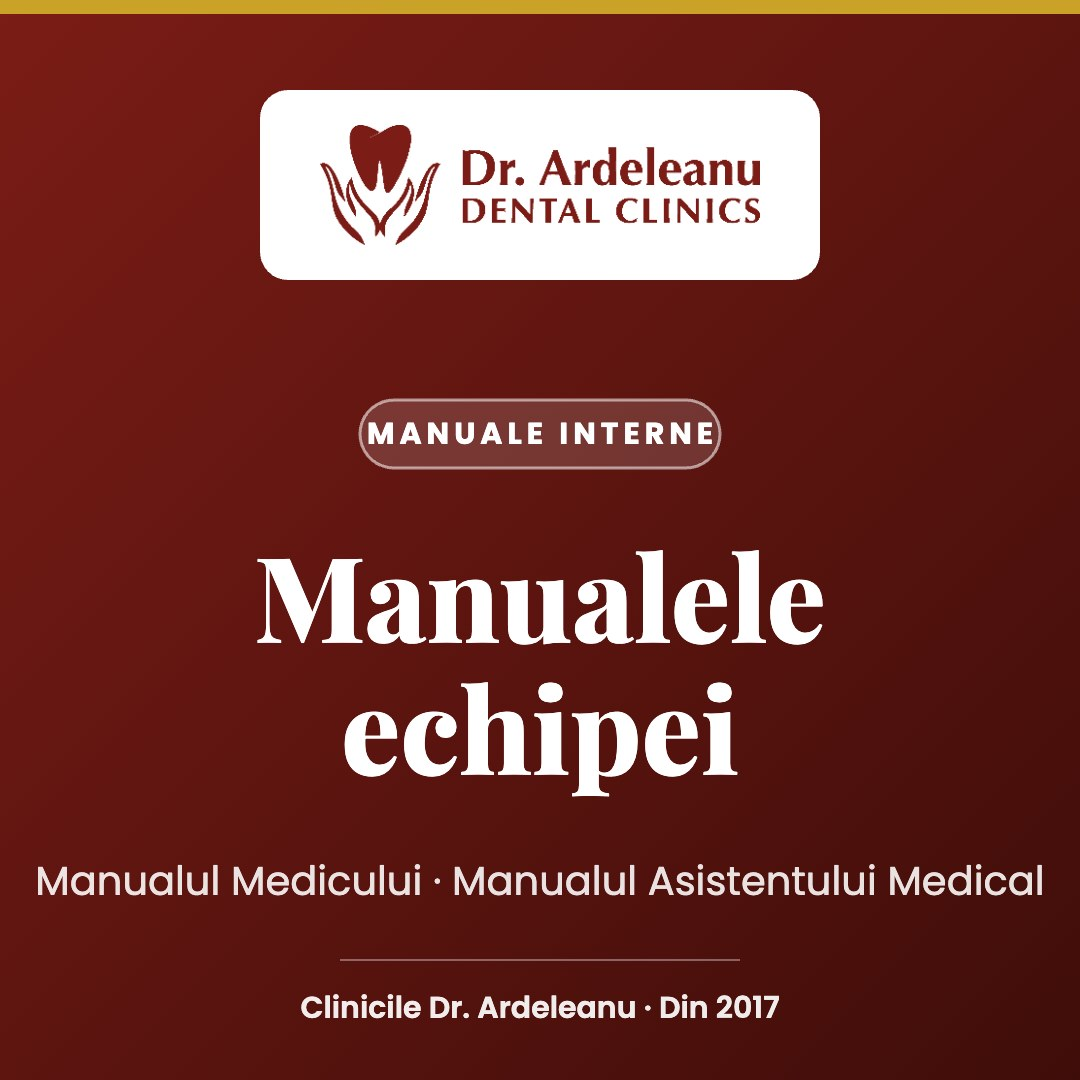
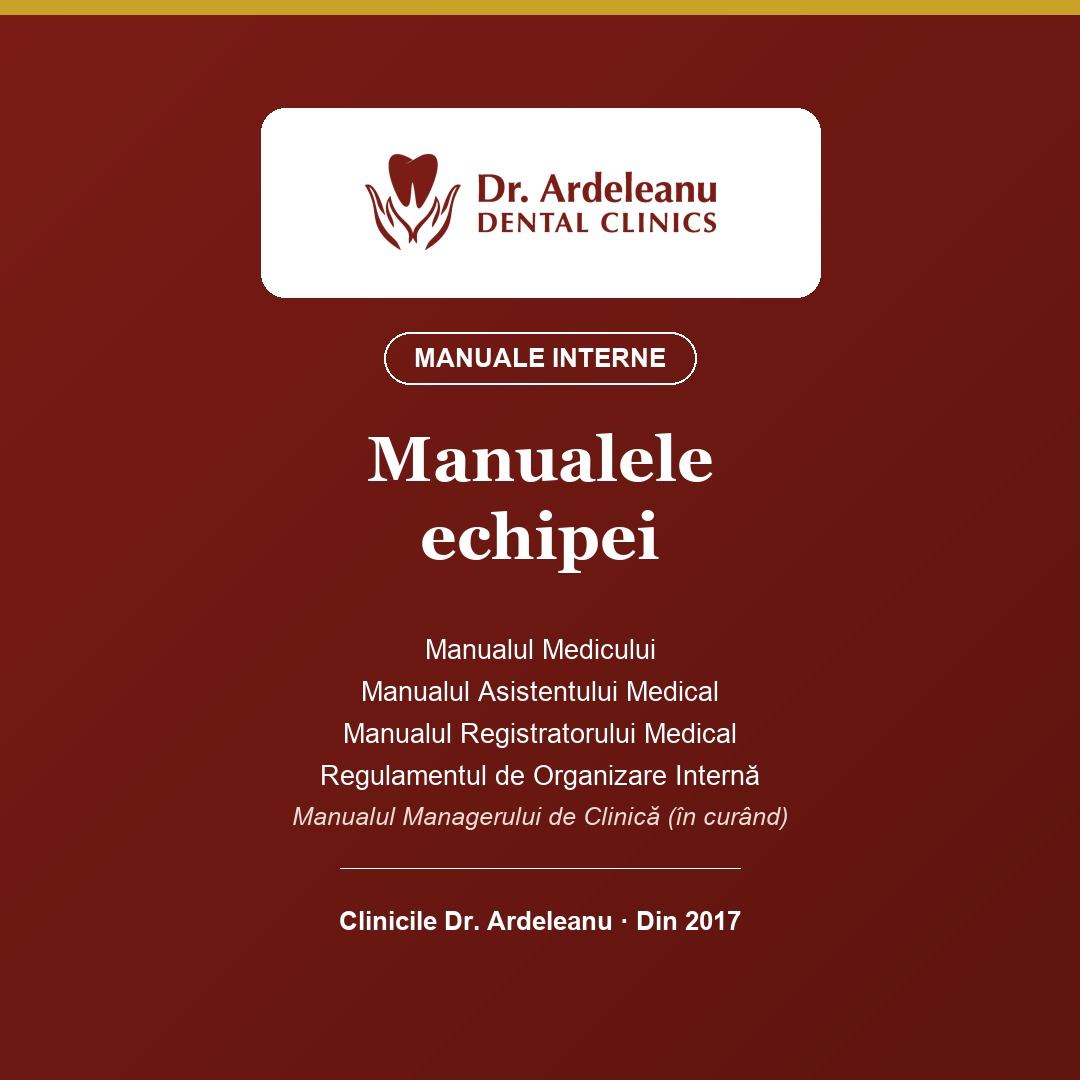
Actualizează imaginea de partajare a homepage-ului cu toate manualele
og-image.jpg mai enumera doar Manualul Medicului și Manualul Asistentului
Medical, deși rețeaua are acum 4 documente publicate (+ Registratori, ROI).
Actualizată imaginea cu toate cele 4 manuale curente, plus Manualul
Managerului de Clinică, marcat distinct „(în curând)" — se va integra
în curând. Actualizată și descrierea og:description din index.html
să reflecte cele 4 manuale live.

Changed region(s): [[0.0306, 0.55, 1.0, 1.0], [0.2444, 0.3056, 0.7639, 0.7639], [0.2444, 0.0611, 0.7639, 0.275]]

diff --git a/index.html b/index.html
@@ -6,7 +6,7 @@
 <title>Manuale Interne — Clinicile Dr. Ardeleanu</title>
 <meta property="og:type" content="website" />
 <meta property="og:title" content="Manualele echipei — Clinicile Dr. Ardeleanu" />
-<meta property="og:description" content="Manualul Medicului și Manualul Asistentului Medical — documentele cadru ale rețelei. Uz intern." />
+<meta property="og:description" content="Manualul Medicului, Manualul Asistentului Medical, Manualul Registratorului Medical și Regulamentul de Organizare Internă — documentele cadru ale rețelei. Uz intern." />
 <meta property="og:url" content="https://vladtm75.github.io/manuale-dr-ardeleanu/" />
 <meta property="og:image" content="https://vladtm75.github.io/manuale-dr-ardeleanu/og-image.jpg" />
 <meta property="og:image:width" content="1080" />
